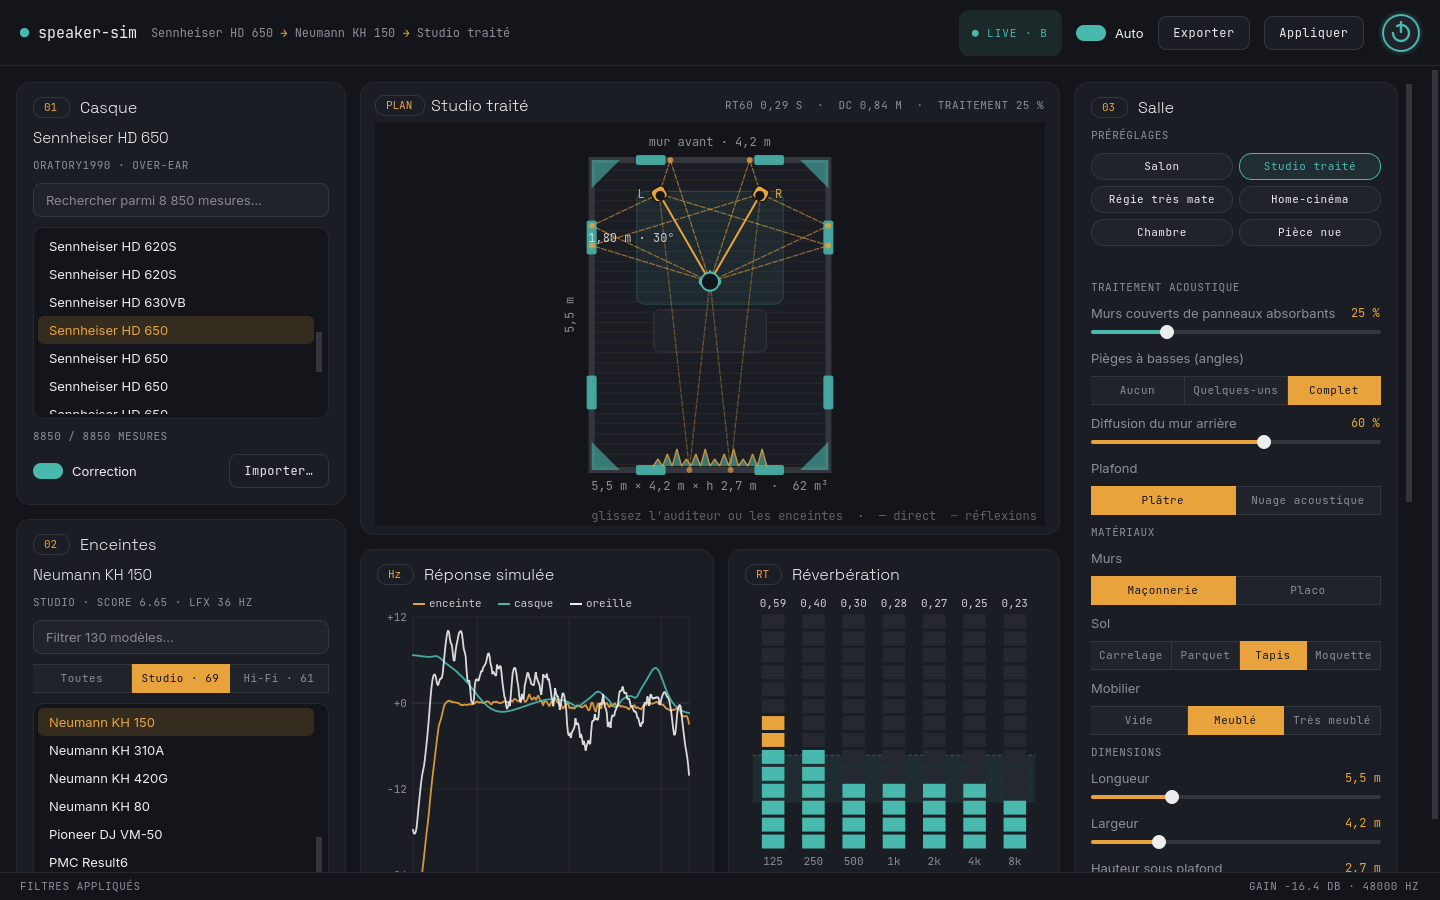
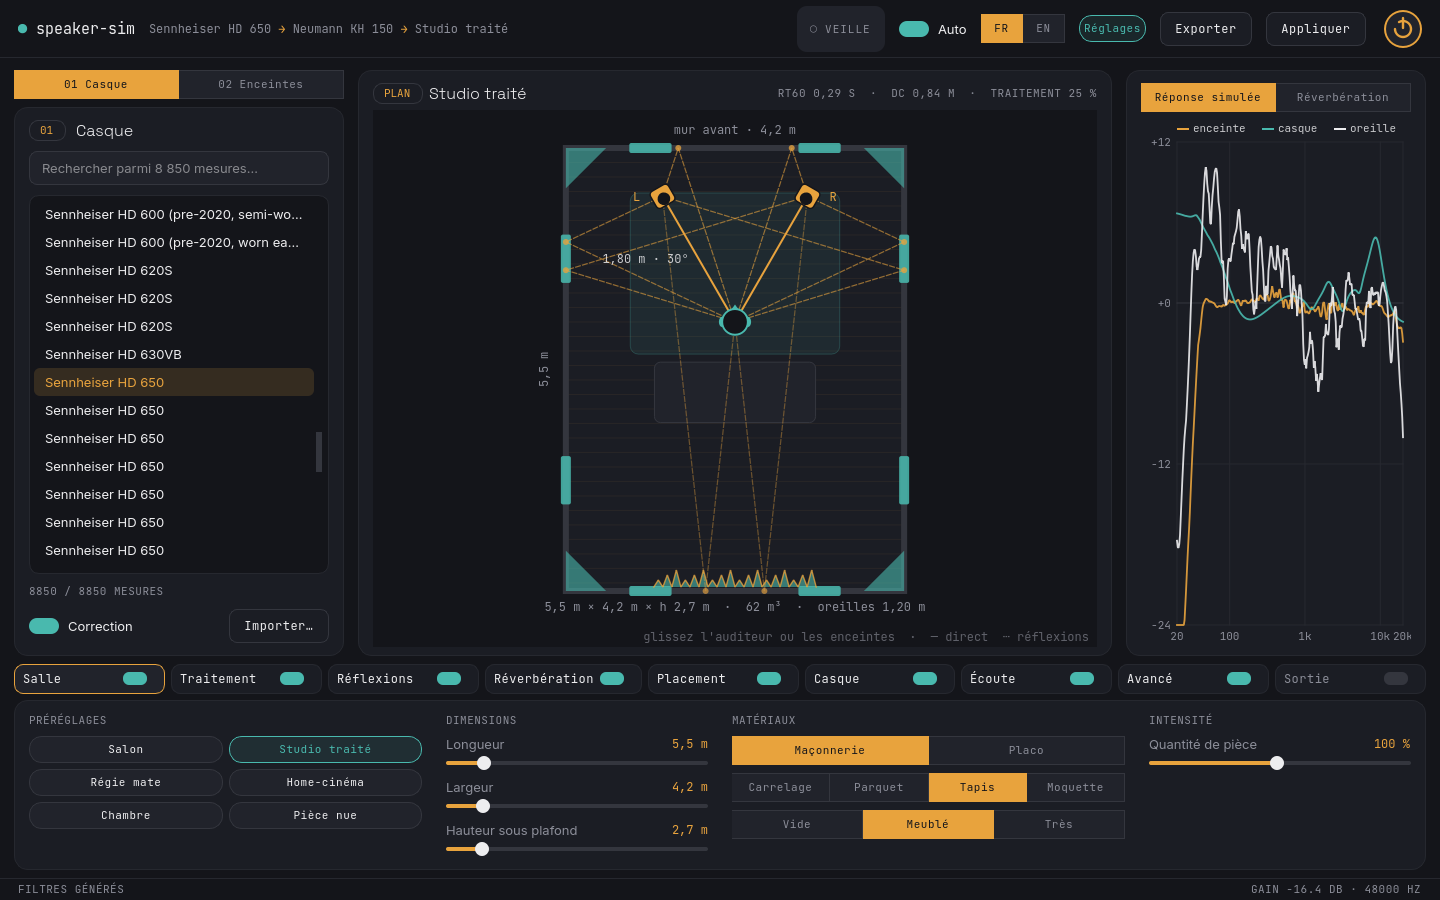
README : onglets à interrupteur, version 1.0.0, ordre 4, nouvelle capture d'écran

diff --git a/README.md b/README.md
@@ -34,7 +34,7 @@ Applications ──► [Speaker Sim] (virtual output, becomes the default output
 
 The Linux script needs no root. It installs into `~/.local/share/devfrp-speaker-sim`
 and adds the `speaker-sim` command plus a menu entry. Options (after `bash -s --`):
-`--uninstall`, `--purge`, `--ref v1.2.0`, `--no-desktop`. Re-run the same command to update.
+`--uninstall`, `--purge`, `--ref v1.0.0`, `--no-desktop`. Re-run the same command to update.
 The Windows and macOS binaries are unsigned. On Windows: SmartScreen → *More info* →
 *Run anyway*. On macOS: right-click → *Open* the first time.
 
@@ -85,13 +85,15 @@ PySide6 works in place of PyQt6 (automatic fallback, see `qt_compat.py`).
   an **off-centre seat** (lateral offset), up to 4th-order reflections, rooms up to
   30 × 20 × 8 m, listening distance up to 10 m, angle up to 80°, manual RT60 up to 4 s.
 - **Listening**: bass and treble shelves (105 Hz / 10 kHz), left/right balance, preamp.
-- **On/off switches**: every settings section has a switch. Turning off *Salle* (room)
-  disables the room simulation and hides its settings. *Réflexions précoces* (early
-  reflections) and *Écoute* (tone and balance) work the same way, and *Avancé* (advanced)
-  shows or hides the expert settings. The settings sit in **one line of cards** under the room plan, split into three tabs
-  (room · placement and reflections · listening and advanced). There is no scrolling: the
-  cards share the window width, and the layout fits a 1200 × 730 window. The **Réglages**
-  button in the top bar hides the whole band.
+- **Tabs with switches**: the settings sit under the room plan in nine tabs (*Room*,
+  *Treatment*, *Reflections*, *Reverberation*, *Placement*, *Headphones*, *Listening*,
+  *Advanced*, *Output*), each with its own **on/off switch**. A tab that is switched off
+  removes its settings and says what applies instead (room off → free field, placement
+  off → standard stereo triangle, and so on); the values are kept for next time. The
+  *Room* switch is the only way to remove the room (the *room amount* goes down to 5 %).
+  The tab bar is always visible: the **Settings** button in the top bar only collapses
+  the content, and clicking a tab expands it again. No scrolling: everything fits a
+  1200 × 730 window.
 - **Seamless changes**: *Apply* starts a second instance (A/B), makes it the default
   output, waits for the streams to move over, then stops the old one. The output never
   disappears, so players never pause. In **Auto** mode every change is applied this way
@@ -116,7 +118,7 @@ IR[s][e] = HP⁻¹ · ( DF⁻¹ · ( LW · Direct[s][e] + ER · Reflections[s][e
    first reflections, *Sound Power* the late reverberation.
 2. **Room**: absorption coefficients per octave band (125 Hz–8 kHz) for every surface.
    The RT60 is computed per band (Eyring, with air absorption), or imposed manually.
-   A shoebox image-source model (order 0–3) computes the reflections, each one filtered
+   A shoebox image-source model (order 0–4) computes the reflections, each one filtered
    by the materials of every wall it hits. The late reverberation is decorrelated
    octave-band noise with the RT60 of each band. Its level follows the critical distance,
    capped below the Schroeder frequency where the statistical model breaks down.
@@ -142,7 +144,9 @@ speaker-sim            # or: python3 speaker-sim/main.py
    Olive score, the LFX and the measurement origin.
 3. **Plan**: drag yourself (the teal head) to move closer or further, or drag a speaker
    to change the angle and the distance from the front wall.
-4. **03 Salle** (room): pick a preset, or set the treatment, materials and dimensions.
+4. **Settings tabs** (under the plan): in *Room*, pick a preset or set the dimensions and
+   materials; *Treatment*, *Reflections*, *Reverberation*, *Placement* and *Listening* refine the
+   rest, and each switch turns its part off.
    The RT60 meters update live; the teal zone (0.2–0.4 s) is the usual target for
    critical listening.
 5. Press the **power button**. With **Auto** on, later changes apply by themselves,
